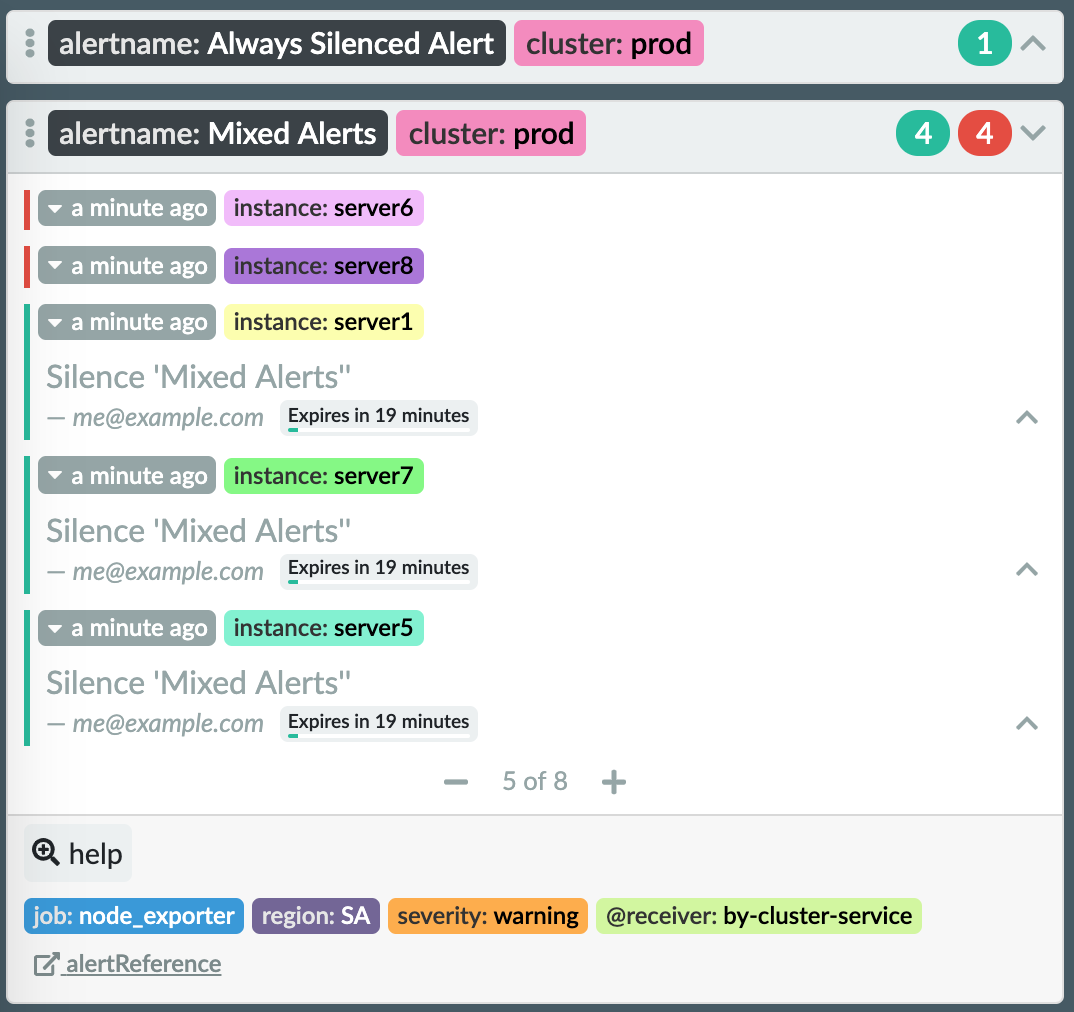
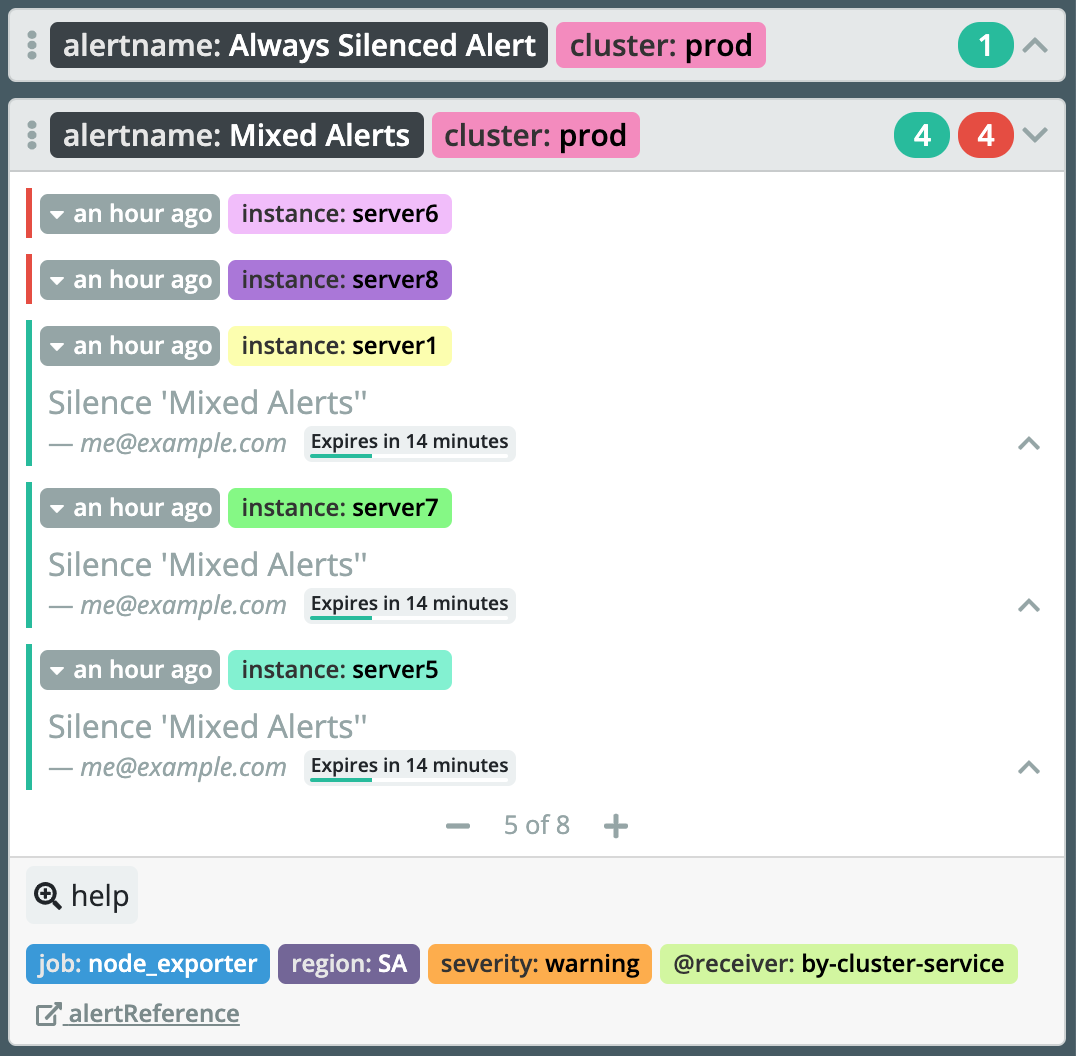
chore(docs): update screenshots and add an overview one

diff --git a/README.md b/README.md
@@ -46,6 +46,12 @@ Example:
 Each group can be collapsed to only show the title bar using top right toggle
 icon.
 
+![Overview](/docs/overview.png)
+
+Clicking on the alert counter in the top left corner will open the overview
+modal, which allows to quickly get an overview of the top label values for
+all current alerts.
+
 [Online demo](https://karma-demo.herokuapp.com/)
 
 To get notifications about new karma releases you can subscribe to the RSS feed
